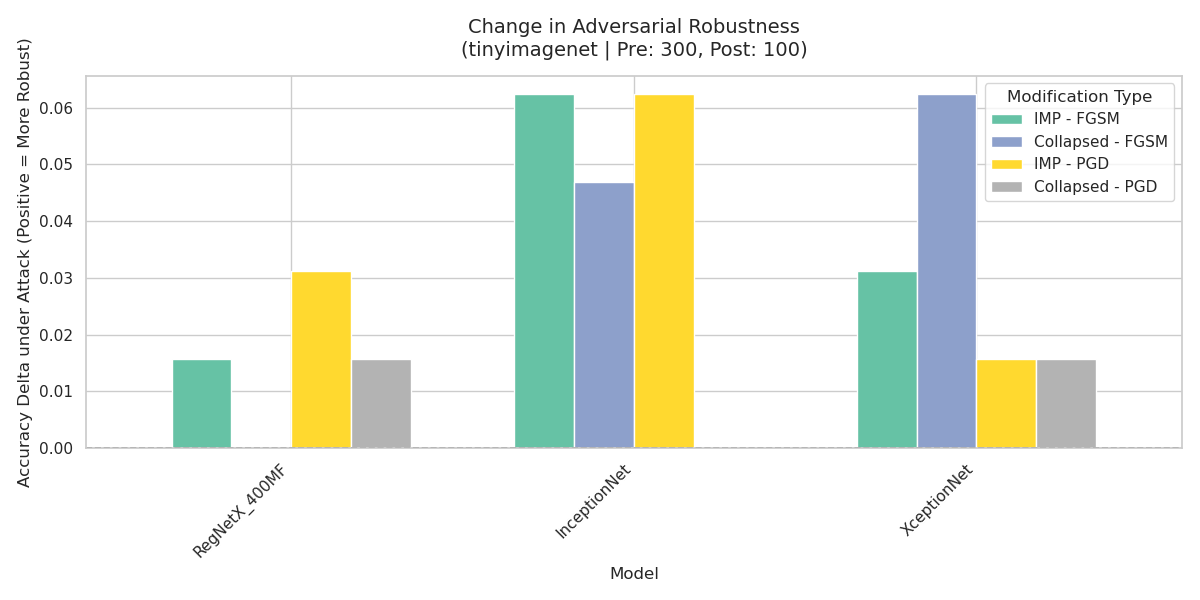
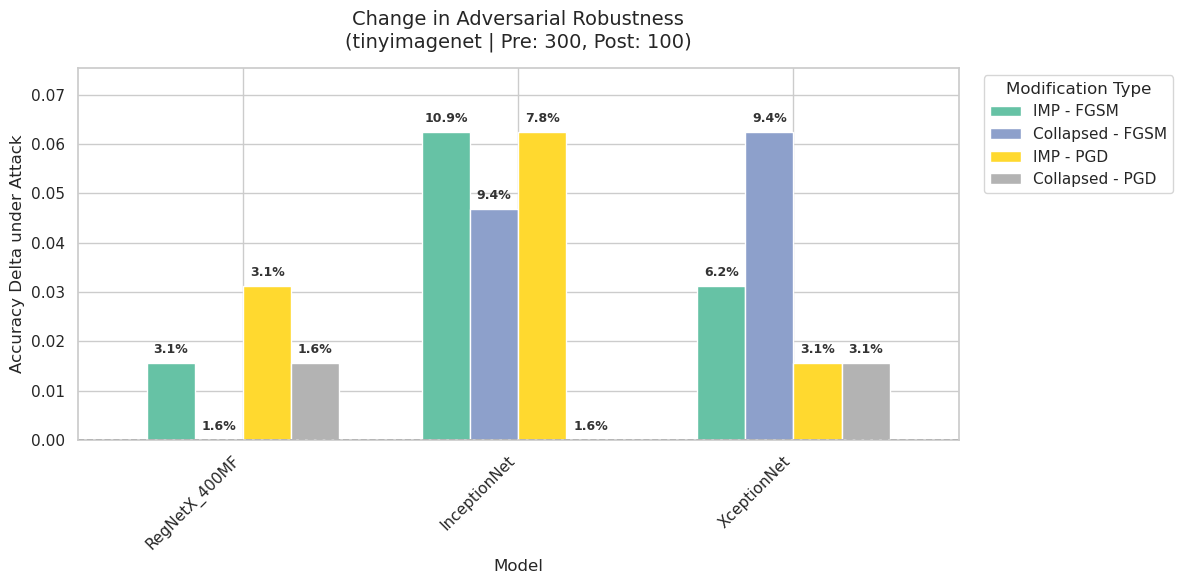
update

diff --git a/manuscript/Transfer2/plot_experiments.py b/manuscript/Transfer2/plot_experiments.py
@@ -31,7 +31,7 @@ def load_and_compute_deltas():
     df = pd.concat(df_list, ignore_index=True)
     df = df[df['model'] != 'model'].reset_index(drop=True)
 
-    # Convert numeric columns
+    # Convert numeric columns (will automatically catch 'percent_pruned' if it exists)
     num_cols = [col for col in df.columns if col not in ['model', 'dataset', 'model_before']]
     for col in num_cols:
         df[col] = pd.to_numeric(df[col], errors='coerce')
@@ -56,8 +56,8 @@ def load_and_compute_deltas():
     
     return df
 
-def plot_bar_chart(df, x_col, columns, labels, title, ylabel, filename, zero_line=False):
-    """Helper function to plot grouped bar charts."""
+def plot_bar_chart(df, x_col, columns, labels, title, ylabel, filename, zero_line=False, df_annotations=None, is_percent=False):
+    """Helper function to plot grouped bar charts with optional text annotations."""
     plt.figure(figsize=(12, 7))
     sns.set_theme(style="whitegrid")
     
@@ -69,13 +69,42 @@ def plot_bar_chart(df, x_col, columns, labels, title, ylabel, filename, zero_lin
     if zero_line:
         plt.axhline(0, color='black', linewidth=1.2, linestyle='--')
         
+    if df_annotations is not None:
+        # Extract the actual absolute values to overlay on the delta bars
+        df_anno = df.set_index(x_col)[df_annotations]
+        anno_vals = df_anno.values.flatten('F') # Flatten column-major to map perfectly to matplotlib patches
+        
+        # Expand Y-axis limits slightly so text annotations don't get cut off
+        ymin, ymax = ax.get_ylim()
+        yrange = ymax - ymin
+        ax.set_ylim(ymin - (yrange * 0.15) if ymin < 0 else ymin, ymax + (yrange * 0.15))
+
+        for i, p in enumerate(ax.patches):
+            val = anno_vals[i]
+            if pd.isna(val):
+                continue
+            
+            height = p.get_height()
+            text_str = f"{val:.1%}" if is_percent else f"{val:.2f}"
+            
+            # Position text above positive bars, below negative bars
+            xytext = (0, 5) if height >= 0 else (0, -15)
+            ax.annotate(text_str, 
+                        (p.get_x() + p.get_width() / 2., height),
+                        ha='center', va='bottom' if height >= 0 else 'top',
+                        xytext=xytext, textcoords='offset points', 
+                        fontsize=9, fontweight='bold', color='#333333')
+                        
     plt.title(title, fontsize=14, pad=15)
     plt.ylabel(ylabel, fontsize=12)
     plt.xlabel('Model', fontsize=12)
     plt.xticks(rotation=45, ha='right')
-    plt.legend(title='Modification Type')
+    
+    # Move legend outside the plot so it doesn't cover bars/text
+    plt.legend(title='Modification Type', bbox_to_anchor=(1.02, 1), loc='upper left')
+    
     plt.tight_layout()
-    plt.savefig(filename)
+    plt.savefig(filename, bbox_inches='tight')
     print(f"Saved '{filename}'")
     plt.close()
 
@@ -90,23 +119,24 @@ def main():
     for (dataset, pre, post), group_df in grouped:
         print(f"\n--- Generating plots for {dataset} | Pre: {pre} | Post: {post} ---")
         
-        # Suffixes for filenames and titles
         file_suffix = f"{dataset}_pre{pre}_post{post}"
         title_suffix = f"\n({dataset} | Pre: {pre}, Post: {post})"
 
-        # Plot 1: Change in Task Accuracy
+        # Plot 1: Change in Task Accuracy (Annotated with Actual % Accuracies)
         plot_bar_chart(
             df=group_df,
             x_col='model',
             columns=['delta_acc_imp', 'delta_acc_collapse'],
             labels=['IMP (Unstructured)', 'Collapsed'],
             title=f'Change in Task Accuracy (Compared to Original){title_suffix}',
-            ylabel='Accuracy Delta (Positive = Improvement)',
+            ylabel='Accuracy Delta',
             filename=f'plot_1_delta_accuracy_{file_suffix}.png',
-            zero_line=True
+            zero_line=True,
+            df_annotations=['acc_unstructured', 'acc_collapsed'],
+            is_percent=True
         )
 
-        # Plot 2: Energy Savings
+        # Plot 2: Energy Savings (Joules are not percents, so no % annotation)
         plot_bar_chart(
             df=group_df,
             x_col='model',
@@ -118,7 +148,7 @@ def main():
             zero_line=True
         )
 
-        # Plot 3: CKA Scores
+        # Plot 3: CKA Scores (Similarity score 0.0 - 1.0, technically not a percent)
         plot_bar_chart(
             df=group_df,
             x_col='model',
@@ -130,17 +160,34 @@ def main():
             zero_line=False
         )
 
-        # Plot 4: Change in Adversarial Robustness
+        # Plot 4: Change in Adversarial Robustness (Annotated with Actual % Accuracies)
         plot_bar_chart(
             df=group_df,
             x_col='model',
             columns=['delta_fgsm_imp', 'delta_fgsm_collapse', 'delta_pgd_imp', 'delta_pgd_collapse'],
             labels=['IMP - FGSM', 'Collapsed - FGSM', 'IMP - PGD', 'Collapsed - PGD'],
             title=f'Change in Adversarial Robustness{title_suffix}',
-            ylabel='Accuracy Delta under Attack (Positive = More Robust)',
+            ylabel='Accuracy Delta under Attack',
             filename=f'plot_4_delta_adversarial_{file_suffix}.png',
-            zero_line=True
+            zero_line=True,
+            df_annotations=['adv_acc_FGSM_unstructured', 'adv_acc_FGSM_collapsed', 'adv_acc_PGD_unstructured', 'adv_acc_PGD_collapsed'],
+            is_percent=True
         )
+        
+        # Plot 5: Percentage Pruned (Only generates if 'percent_pruned' exists in CSVs)
+        if 'percent_pruned' in group_df.columns:
+            plot_bar_chart(
+                df=group_df,
+                x_col='model',
+                columns=['percent_pruned'],
+                labels=['Target Sparsity (Same for IMP & Collapsed)'],
+                title=f'Percentage of Weights Pruned from Original{title_suffix}',
+                ylabel='Percentage Pruned',
+                filename=f'plot_5_percent_pruned_{file_suffix}.png',
+                zero_line=False,
+                df_annotations=['percent_pruned'],
+                is_percent=True
+            )
     
     print("\nAll delta comparisons generated successfully!")
 
